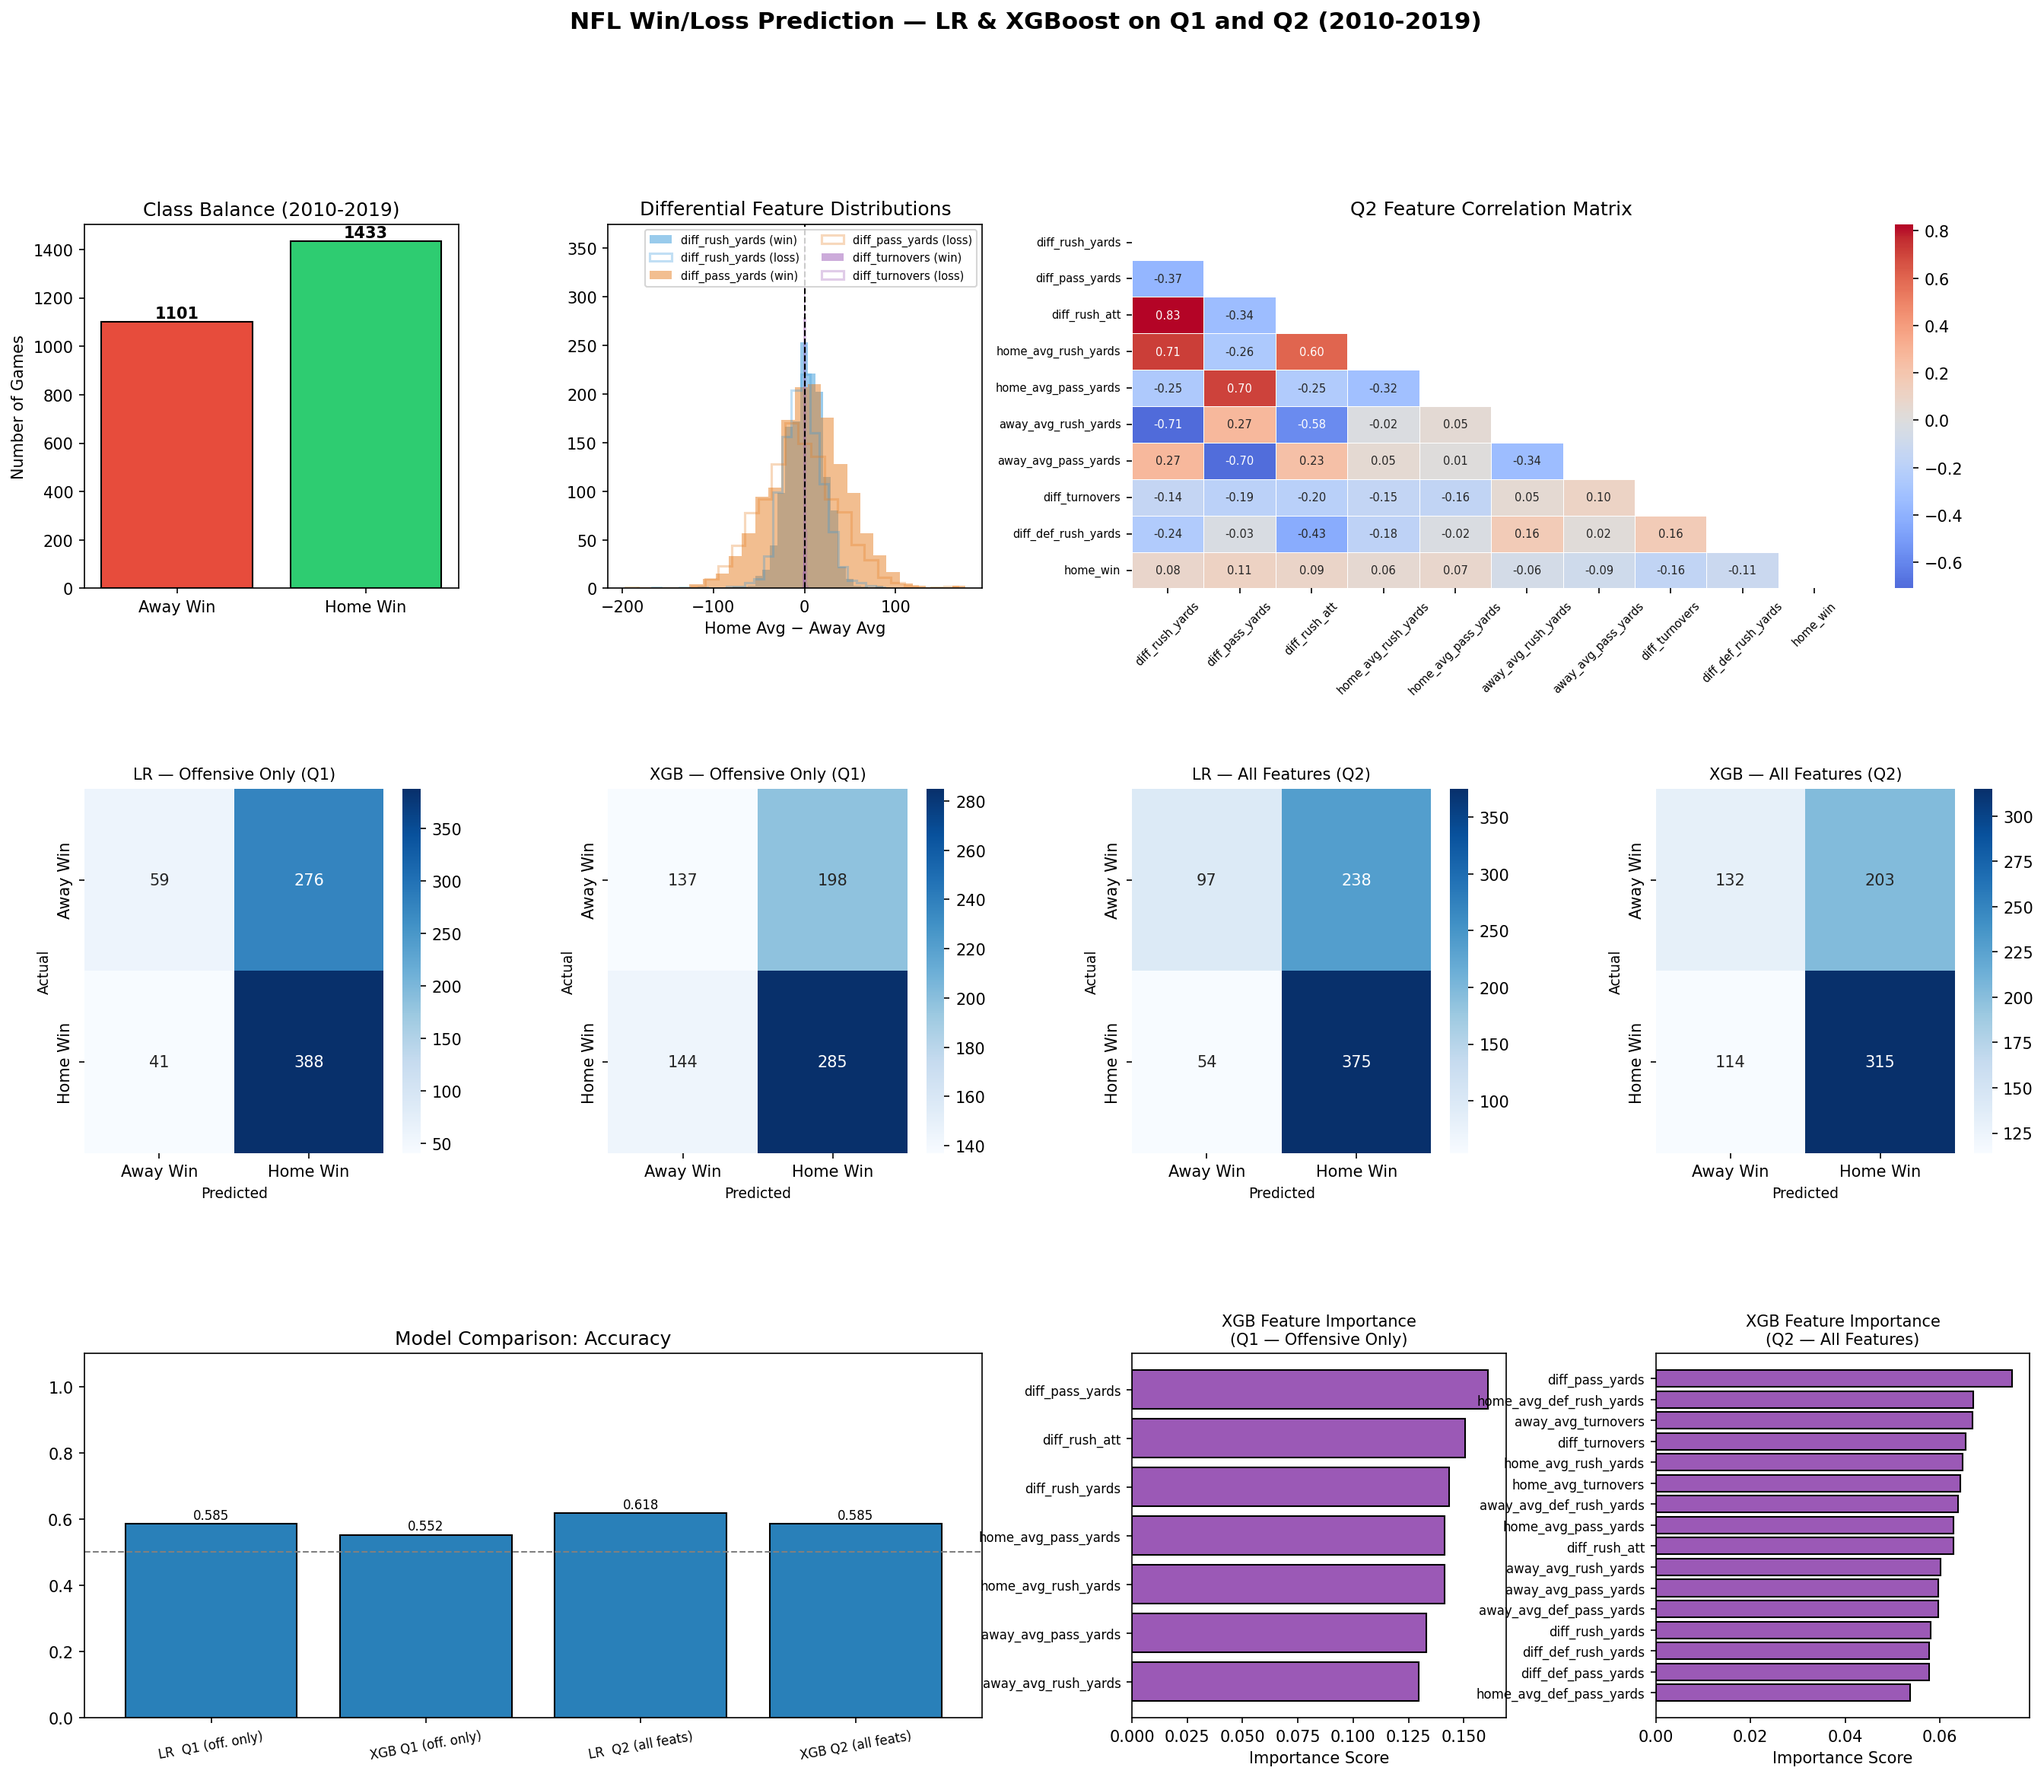
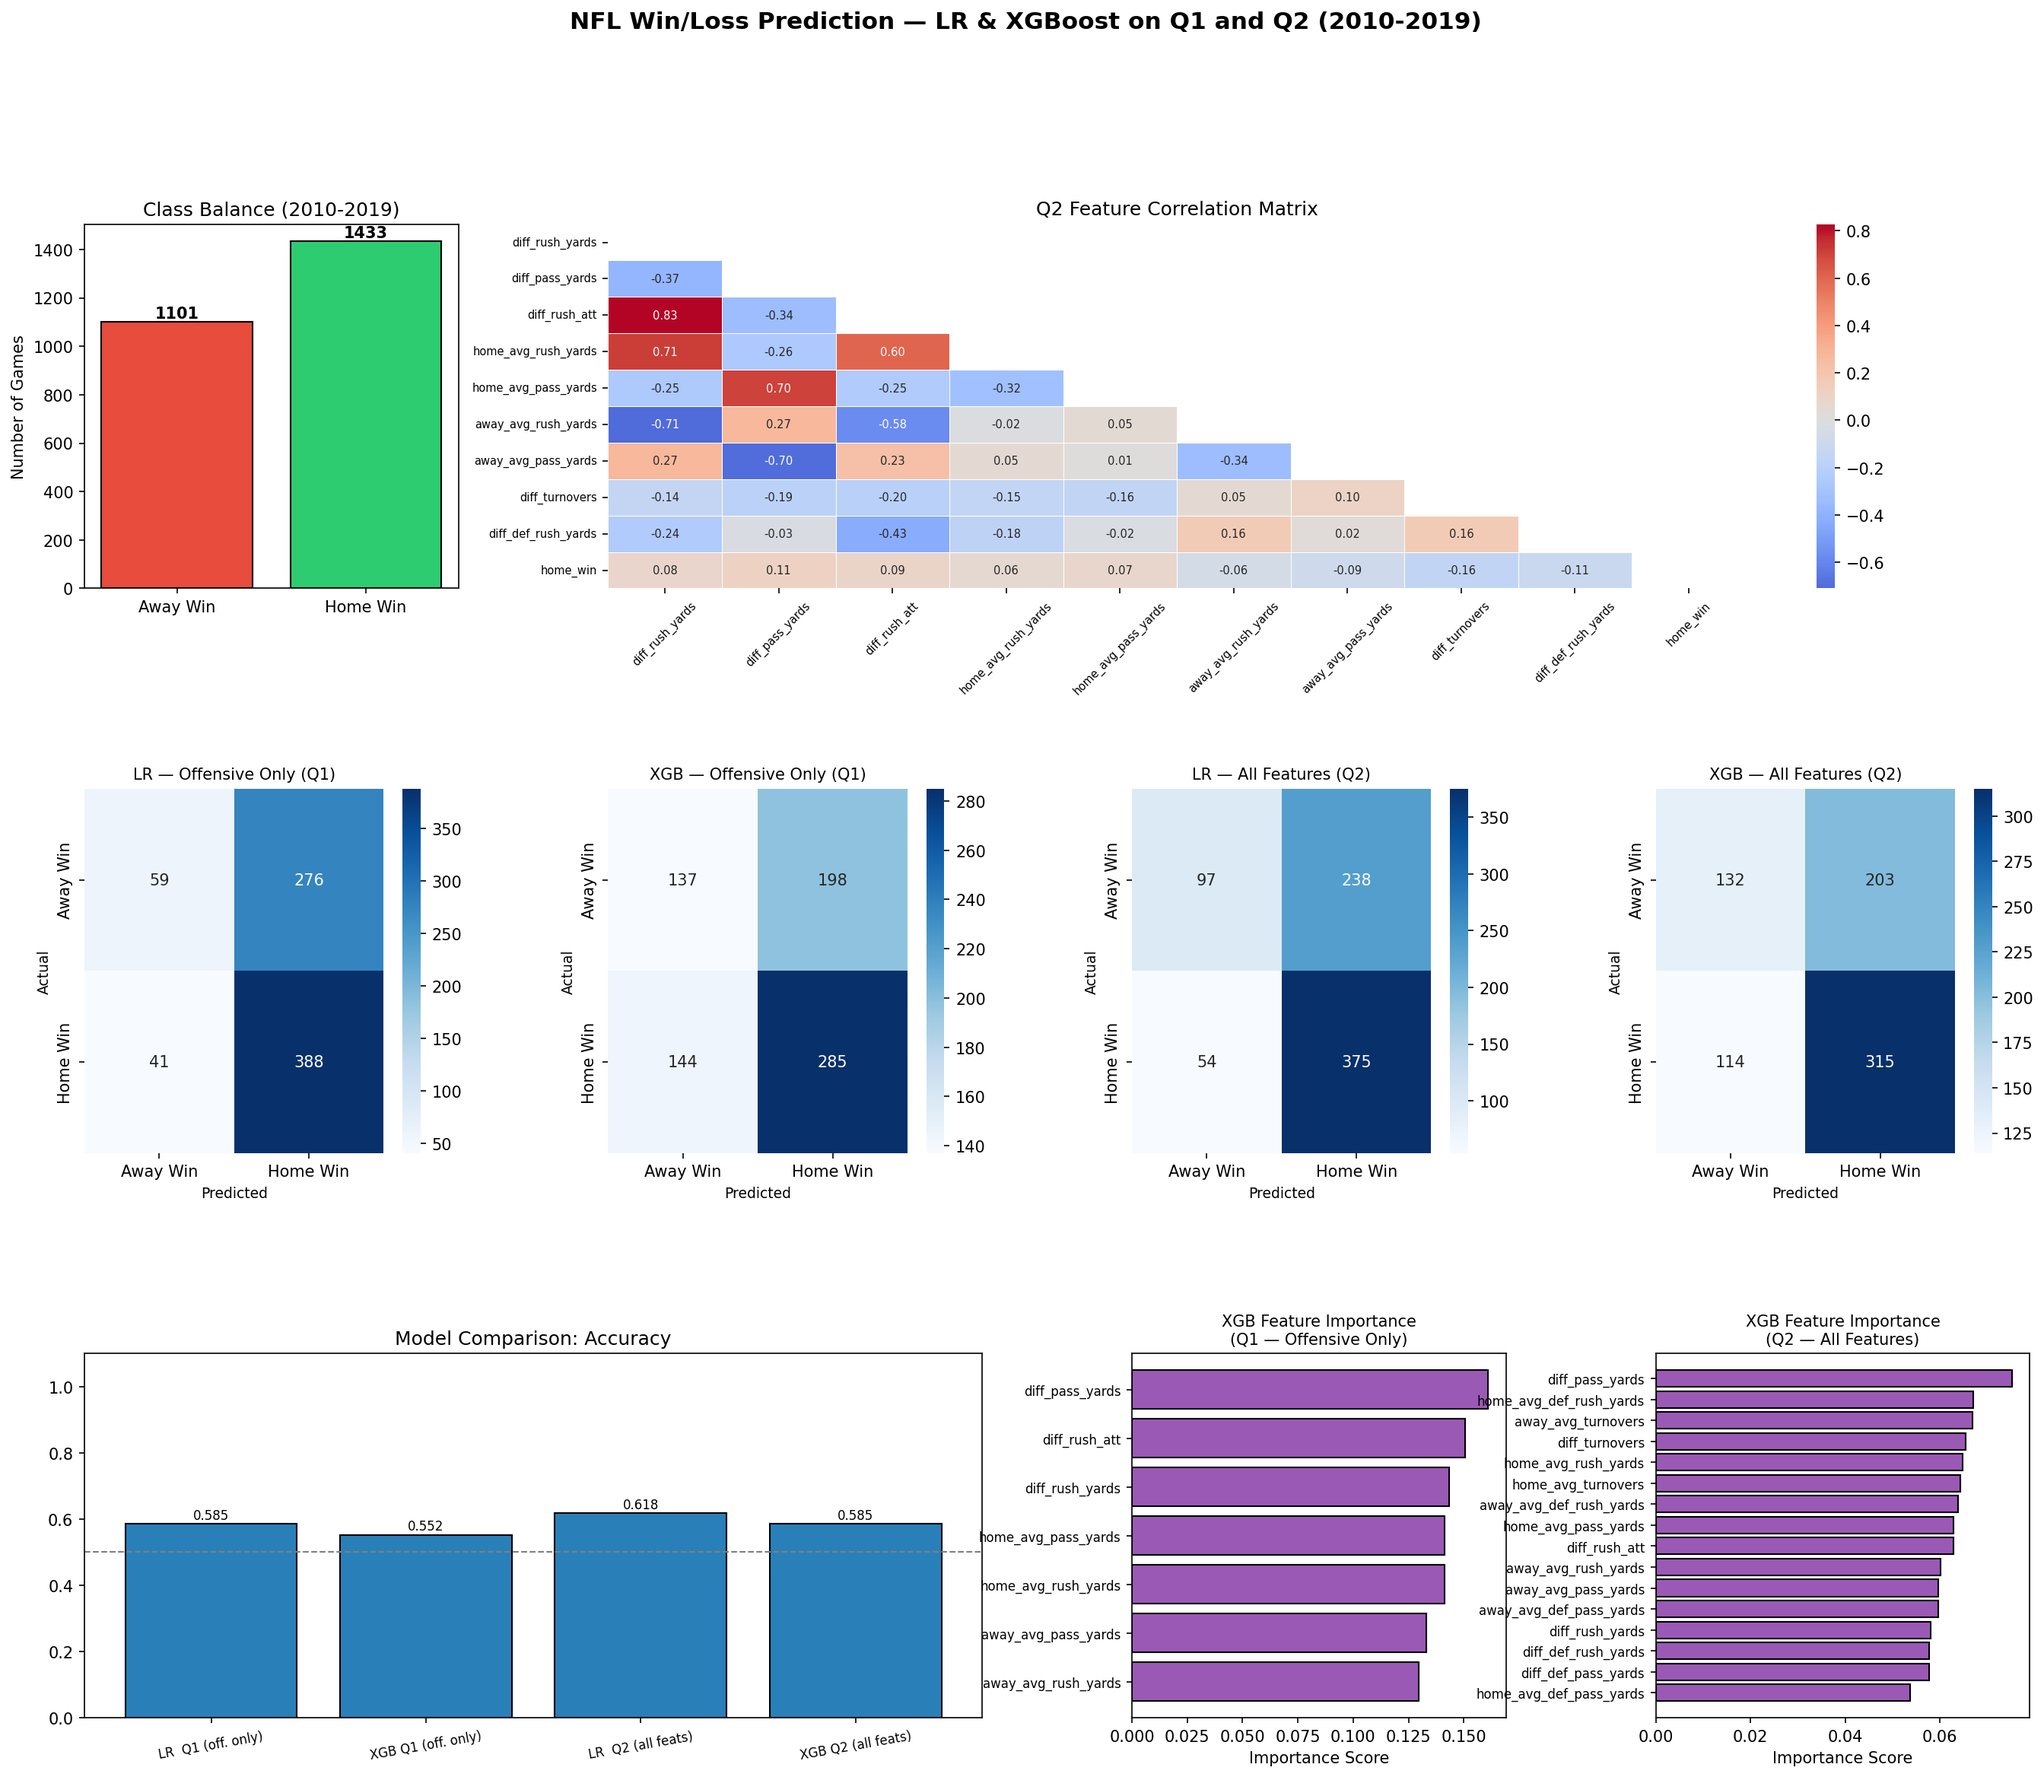
remove all of dist. graph

Changed region(s): [[0.2471, 0.125, 0.9576, 0.375]]

diff --git a/main.py b/main.py
@@ -1,4 +1,4 @@
-""""
+"""
 NFL Win/Loss Prediction (2010-2019)
 Group Members: TezJioh Knox, Nate Bamikole
 
@@ -383,34 +383,6 @@ def chart_class_balance(games, ax):
     ax.set_ylabel("Number of Games")
 
 
-def chart_diff_distributions(games, ax):
-    """
-    Histogram showing how differential features are distributed
-    for games the home team won vs lost.
-    If the distributions are separated, the feature has predictive power.
-    """
-
-    diff_cols = ["diff_rush_yards", "diff_pass_yards", "diff_turnovers"]
-    colors    = ["#3498db", "#e67e22", "#9b59b6"]
-
-    for col, color in zip(diff_cols, colors):
-        # Grab the diff values for games the home team WON
-        home_wins = games.loc[games["home_win"] == 1, col]
-        # Grab the diff values for games the home team LOST
-        home_losses = games.loc[games["home_win"] == 0, col]
-
-        # Draw a filled histogram for wins and an outline histogram for losses
-        ax.hist(home_wins,   bins=25, alpha=0.5, color=color, label=f"{col} (win)")
-        ax.hist(home_losses, bins=25, alpha=0.3, color=color,
-                histtype="step", linewidth=1.5, label=f"{col} (loss)")
-
-    # Draw a vertical line at 0 (the breakeven point — neither team has an advantage)
-    ax.axvline(0, color="black", linestyle="--", linewidth=1)
-
-    ax.set_title("Differential Feature Distributions", fontsize=12)
-    ax.set_xlabel("Home Avg − Away Avg")
-    ax.legend(fontsize=7, ncol=2)
-
 
 def chart_correlation_heatmap(games, feature_cols, ax):
     """
@@ -758,8 +730,8 @@ def main():
     # ------------------------------------------------------------------
     #
     # Grid layout (3 rows x 4 columns):
-    #   Row 0: [class balance] [diff distributions] [correlation heatmap (2 cols wide)]
-    #   Row 1: [LR Q1 CM]     [XGB Q1 CM]          [LR Q2 CM]     [XGB Q2 CM]
+    #   Row 0: [class balance] [correlation heatmap — 3 cols wide]
+    #   Row 1: [LR Q1 CM]     [XGB Q1 CM]     [LR Q2 CM]     [XGB Q2 CM]
     #   Row 2: [model comparison (2 cols wide)] [XGB Q1 importance] [XGB Q2 importance]
     #
 
@@ -771,9 +743,8 @@ def main():
     grid = gridspec.GridSpec(3, 4, figure=fig, hspace=0.55, wspace=0.4)
 
     # Row 0: exploratory charts
-    ax_balance      = fig.add_subplot(grid[0, 0])       # 1 column wide
-    ax_diff_dist    = fig.add_subplot(grid[0, 1])       # 1 column wide
-    ax_correlation  = fig.add_subplot(grid[0, 2:4])     # 2 columns wide
+    ax_balance     = fig.add_subplot(grid[0, 0])       # 1 column wide
+    ax_correlation = fig.add_subplot(grid[0, 1:4])     # 3 columns wide
 
     # Row 1: confusion matrices (one per model)
     ax_cm_lr_q1  = fig.add_subplot(grid[1, 0])
@@ -788,7 +759,6 @@ def main():
 
     # Draw each chart
     chart_class_balance(games, ax_balance)
-    chart_diff_distributions(games, ax_diff_dist)
     chart_correlation_heatmap(games, Q2_FEATURES[:9], ax_correlation)
 
     chart_confusion_matrix(confusion_matrix(y_test, pred_lr_q1),
